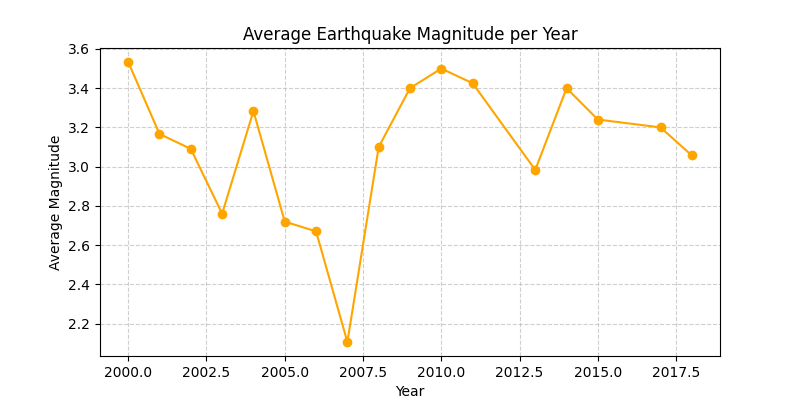
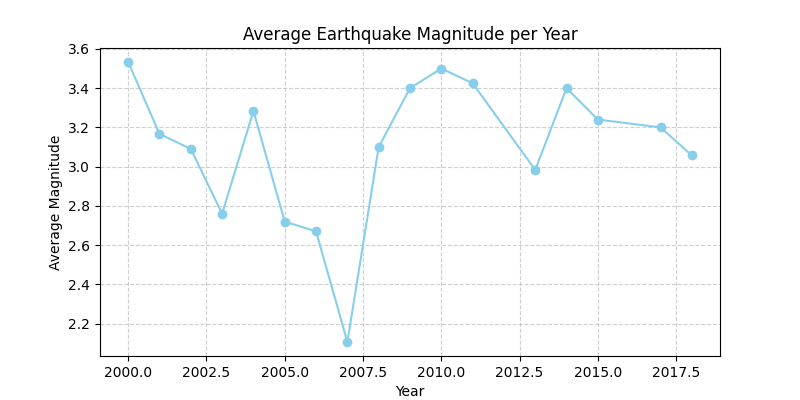
Add earthquake plots: number per year and average magnitude per year

diff --git a/plot_earthquakes.py b/plot_earthquakes.py
@@ -71,7 +71,7 @@ def plot_average_magnitude_per_year(earthquakes):
     avg_magnitudes = [sum(magnitudes_by_year[y]) / len(magnitudes_by_year[y]) for y in years]
 
     plt.figure(figsize=(8, 4))
-    plt.plot(years, avg_magnitudes, marker='o', color='orange')
+    plt.plot(years, avg_magnitudes, marker='o', color='skyblue')
     plt.xlabel("Year")
     plt.ylabel("Average Magnitude")
     plt.title("Average Earthquake Magnitude per Year")
